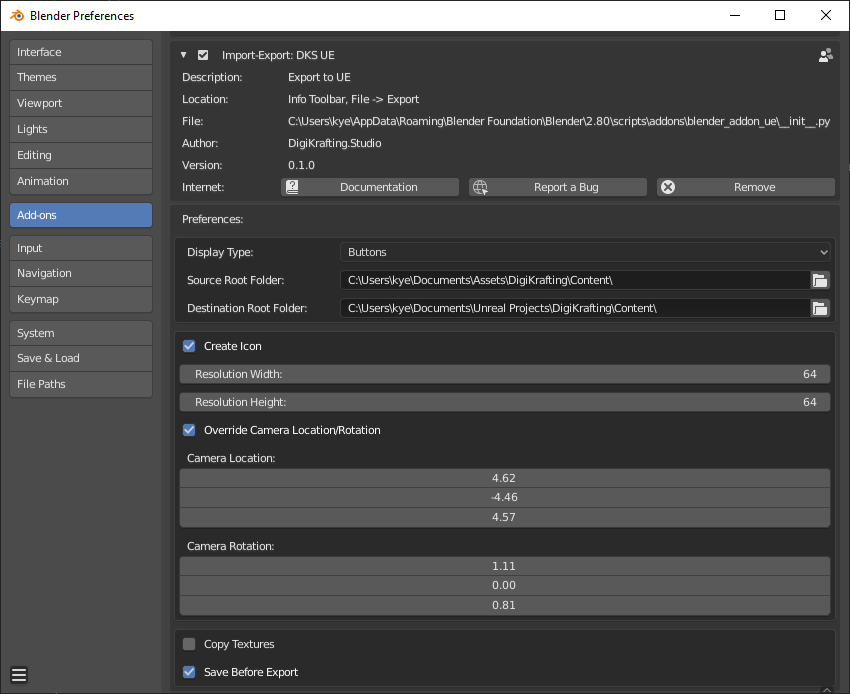
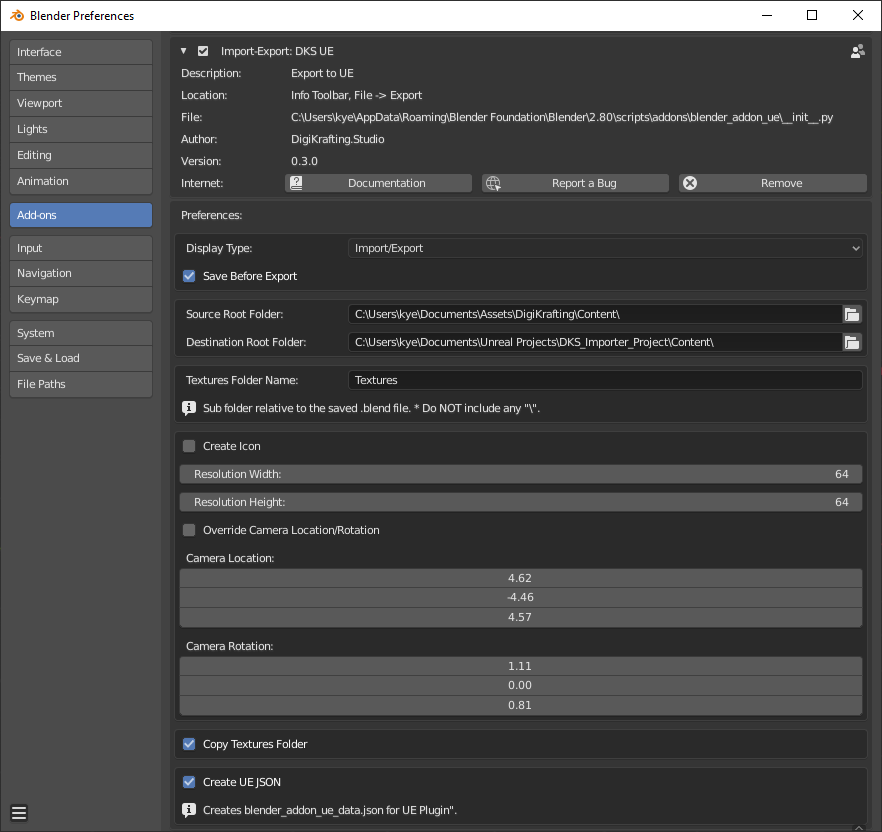
0_3_0

diff --git a/dks_ue.py b/dks_ue.py
@@ -20,20 +20,27 @@ import bpy, math
 from bpy.utils import register_class, unregister_class
 from subprocess import Popen
 from os import system, path, makedirs, sep
-import os, sys
-import distutils.dir_util
+from distutils import dir_util
 import json
 from pathlib import Path as pathlib_path
 
-_preferences={};
+_preferences={}
+
+def dks_ue_get_export_sub():
+ 
+    global _preferences
+    
+    _file_name = bpy.context.blend_data.filepath
+    _file_path = _file_name[0:len(_file_name)-len(bpy.path.basename(_file_name))]
+    _file_sub = _file_path[len(_preferences["option_ue_src"]):]
+    
+    return _file_sub
 
 def dks_ue_get_export_path():
     
     global _preferences
 
-    _file_name = bpy.context.blend_data.filepath
-    _file_path = _file_name[0:len(_file_name)-len(bpy.path.basename(_file_name))]
-    _file_sub = _file_path[len(_preferences["option_ue_src"]):]
+    _file_sub = dks_ue_get_export_sub()
     _export_path = _preferences["option_ue_dst"]+_file_sub
 
     if not path.exists(_export_path):
@@ -47,9 +54,6 @@ def dks_ue_filename(self, context):
     _export_path = dks_ue_get_export_path()
     _export_file = _export_path + _object_name + '.fbx'
  
-    if not bpy.context.preferences.addons[__package__].preferences.option_save_before_export:
-        bpy.ops.wm.save_mainfile()
-
     return _export_file
 
 
@@ -92,7 +96,7 @@ def dks_ue_folder_crawl(directory):
     
     found=""
 
-    path_check=os.path.join(directory, "blender_addon_ue.json")
+    path_check=path.join(directory, "blender_addon_ue.json")
 
     if path.exists(path_check):
         found=path_check
@@ -102,7 +106,25 @@ def dks_ue_folder_crawl(directory):
             found=dks_ue_folder_crawl(path_parent)
     
     return found
-#
+
+def dks_ue_get_file_name():
+
+    return bpy.path.basename(bpy.context.blend_data.filepath).replace('.blend','')
+
+def dks_ue_get_texture_file(texture_path,mesh_name,mat_name,texture_name,texture_ext):
+
+    if path.exists(texture_path+mesh_name+'_'+mat_name+'_'+texture_name+'.'+texture_ext):
+        return texture_path+mesh_name+'_'+mat_name+'_'+texture_name+'.'+texture_ext
+    elif path.exists(texture_path+mat_name+'_'+texture_name+'.'+texture_ext):
+        return texture_path+mat_name+'_'+texture_name+'.'+texture_ext
+    else:
+        _blend=dks_ue_get_file_name()
+        if path.exists(texture_path+_blend+'_'+mesh_name+'_'+texture_name+'.'+texture_ext):
+            return texture_path+_blend+'_'+mesh_name+'_'+texture_name+'.'+texture_ext
+        elif path.exists(texture_path+_blend+'_'+mat_name+'_'+texture_name+'.'+texture_ext):
+            return texture_path+_blend+'_'+mat_name+'_'+texture_name+'.'+texture_ext
+        else:
+            return ""
 
 class dks_ue_export(bpy.types.Operator):
 
@@ -114,13 +136,14 @@ class dks_ue_export(bpy.types.Operator):
         
         global _preferences
 
+        if bpy.context.preferences.addons[__package__].preferences.option_save_before_export:
+            bpy.ops.wm.save_mainfile()
+
         _file_name = bpy.context.blend_data.filepath
         _file_path = _file_name[0:len(_file_name)-len(bpy.path.basename(_file_name))]
         
         _file_json=dks_ue_folder_crawl(_file_path)
         
-        print("_file_json:",_file_json)
-
         if _file_json!="":
                 
             try:
@@ -164,6 +187,9 @@ class dks_ue_export(bpy.types.Operator):
             if "option_textures_folder" not in _preferences:
                 _preferences["option_textures_folder"]=bpy.context.preferences.addons[__package__].preferences.option_textures_folder
 
+            if "option_ue_json" not in _preferences:
+                _preferences["option_ue_json"]=bpy.context.preferences.addons[__package__].preferences.option_ue_json
+
         else:
 
             _preferences["option_ue_src"]=bpy.context.preferences.addons[__package__].preferences.option_ue_src
@@ -176,10 +202,13 @@ class dks_ue_export(bpy.types.Operator):
             _preferences["option_camera_rotation"] = (math.radians(bpy.context.preferences.addons[__package__].preferences.option_camera_rotation[0]),math.radians(bpy.context.preferences.addons[__package__].preferences.option_camera_rotation[1]),math.radians(bpy.context.preferences.addons[__package__].preferences.option_camera_rotation[2]))
             _preferences["option_copy_textures"]=bpy.context.preferences.addons[__package__].preferences.option_copy_textures
             _preferences["option_textures_folder"]=bpy.context.preferences.addons[__package__].preferences.option_textures_folder
+            _preferences["option_ue_json"]=bpy.context.preferences.addons[__package__].preferences.option_ue_json
 
         if _preferences["option_create_icon"]:
 
             screenshot(self, context)
+
+        _export_file = dks_ue_fbx_export(self, context)
 
         if _preferences["option_copy_textures"]:
 
@@ -187,10 +216,58 @@ class dks_ue_export(bpy.types.Operator):
             _path_textures_to = dks_ue_get_export_path() + _preferences["option_textures_folder"] + sep
 
             if path.exists(_path_textures_from):
-                distutils.dir_util.copy_tree(_path_textures_from, _path_textures_to)
+                dir_util.copy_tree(_path_textures_from, _path_textures_to)
 
-        _export_file = dks_ue_fbx_export(self, context)
+            blender_data = {}
+            blender_data['path']=dks_ue_get_export_sub().replace("\\","/")
+            blender_data['materials'] = []
 
+            _objects = bpy.context.scene.objects
+            _texture_ext="png"
+
+            for _obj in _objects:
+
+                if _obj.type=='MESH':
+
+                    _obj_name = _obj.name
+
+                    _materials = _obj.data.materials
+
+                    for _material in _materials:
+
+                        _material_name = _material.name
+                        
+                        _material_data = {}
+                        _material_data["name"]=_material_name
+
+                        _file_Base_Color = dks_ue_get_texture_file(_path_textures_from,_obj_name,_material_name,'Base_Color',_texture_ext)
+                        if _file_Base_Color=="":
+                            _file_Base_Color = dks_ue_get_texture_file(_path_textures_from,_obj_name,_material_name,'BaseColor',_texture_ext)
+                        _file_Ambient_occlusion = dks_ue_get_texture_file(_path_textures_from,_obj_name,_material_name,'Ambient_occlusion',_texture_ext)
+                        _file_Metallic = dks_ue_get_texture_file(_path_textures_from,_obj_name,_material_name,'Metallic',_texture_ext)
+                        _file_Roughness = dks_ue_get_texture_file(_path_textures_from,_obj_name,_material_name,'Roughness',_texture_ext)
+                        _file_ORM = dks_ue_get_texture_file(_path_textures_from,_obj_name,_material_name,'OcclusionRoughnessMetallic',_texture_ext)
+                        _file_Opacity = dks_ue_get_texture_file(_path_textures_from,_obj_name,_material_name,'Opacity',_texture_ext)
+                        _file_Normal = dks_ue_get_texture_file(_path_textures_from,_obj_name,_material_name,'Normal',_texture_ext)
+                        if _file_Base_Color=="":
+                            _file_Normal = dks_ue_get_texture_file(_path_textures_from,_obj_name,_material_name,'Normal_OpenGL',_texture_ext)
+                        
+                        _material_data['base_color']=_file_Base_Color[len(bpy.path.abspath('//')):].replace("\\","/").replace("."+_texture_ext,"")
+                        _material_data['normal']=_file_Normal[len(bpy.path.abspath('//')):].replace("\\","/").replace("."+_texture_ext,"")
+                        _material_data['orm']=_file_ORM[len(bpy.path.abspath('//')):].replace("\\","/").replace("."+_texture_ext,"")
+                        _material_data['opacity']=_file_Opacity[len(bpy.path.abspath('//')):].replace("\\","/").replace("."+_texture_ext,"")
+                        _material_data['ambient_occlusion']=_file_Ambient_occlusion[len(bpy.path.abspath('//')):].replace("\\","/").replace("."+_texture_ext,"")
+                        _material_data['metallic']=_file_Metallic[len(bpy.path.abspath('//')):].replace("\\","/").replace("."+_texture_ext,"")
+                        _material_data['roughness']=_file_Roughness[len(bpy.path.abspath('//')):].replace("\\","/").replace("."+_texture_ext,"")
+                        
+                        blender_data['materials'].append(_material_data)
+            
+            json_data = json.dumps(blender_data, sort_keys=False, indent=3)
+            json_data_filename = dks_ue_get_export_path()+'blender_addon_ue_data.json'
+            
+            with open(json_data_filename, 'w') as f:
+                json.dump(blender_data, f)
+        
         return {'FINISHED'}
 
 classes = (

diff --git a/__init__.py b/__init__.py
@@ -20,7 +20,7 @@ bl_info = {
         "name": "DKS UE",
         "description": "Export to UE",
         "author": "DigiKrafting.Studio",
-        "version": (0, 2, 0),
+        "version": (0, 3, 0),
         "blender": (2, 80, 0),
         "location": "Info Toolbar, File -> Export",
         "wiki_url":    "https://github.com/DigiKrafting/blender_addon_ue/wiki",
@@ -84,13 +84,19 @@ class dks_ue_addon_prefs(bpy.types.AddonPreferences):
         option_textures_folder : bpy.props.StringProperty(
                 name="Textures Folder Name",
                 default="Textures",
-        )        
+        )
+        option_ue_json : bpy.props.BoolProperty(
+                name="Create UE JSON",
+                default=False,
+        )                
         def draw(self, context):
 
                 layout = self.layout
 
                 box=layout.box()
                 box.prop(self, 'option_display_type')
+                box.prop(self, 'option_save_before_export')
+                box=layout.box()
                 box.prop(self, 'option_ue_src')
                 box.prop(self, 'option_ue_dst')
                 box=layout.box()
@@ -105,7 +111,9 @@ class dks_ue_addon_prefs(bpy.types.AddonPreferences):
                 box.prop(self, 'option_camera_rotation')
                 box=layout.box()
                 box.prop(self, 'option_copy_textures')
-                box.prop(self, 'option_save_before_export')
+                box=layout.box()
+                box.prop(self, 'option_ue_json')
+                box.label(text='Creates blender_addon_ue_data.json for UE Plugin".',icon='INFO')
 
 class dks_ue_menu(bpy.types.Menu):
 

diff --git a/README.md b/README.md
@@ -10,6 +10,7 @@ Bridge/Pipeline/Workflow export for Unreal Engine.
 - Option to Create Icon (Useful for toolbar items/etc)
 - Option to Copy Textures Folder
 - Option to override preferences (Useful for a per project setup, see "Overriding Preferences" below)
+- Option to create blender_addon_ue_data.json for UE Plugin (\* Testing UE Plugin, will release soon ;))
 
 # Roadmap
 
@@ -89,5 +90,9 @@ Installing an Addon in Blender
 - Click [Install Add-on from File..]
 
 # Screenshots
+## Blender
+![alt](/screenshots/ue_blender.png)
+## Unreal Editor
+![alt](/screenshots/ue_material_setup.png)
 ## Preferences
 ![alt](/screenshots/ue_prefs.png)
